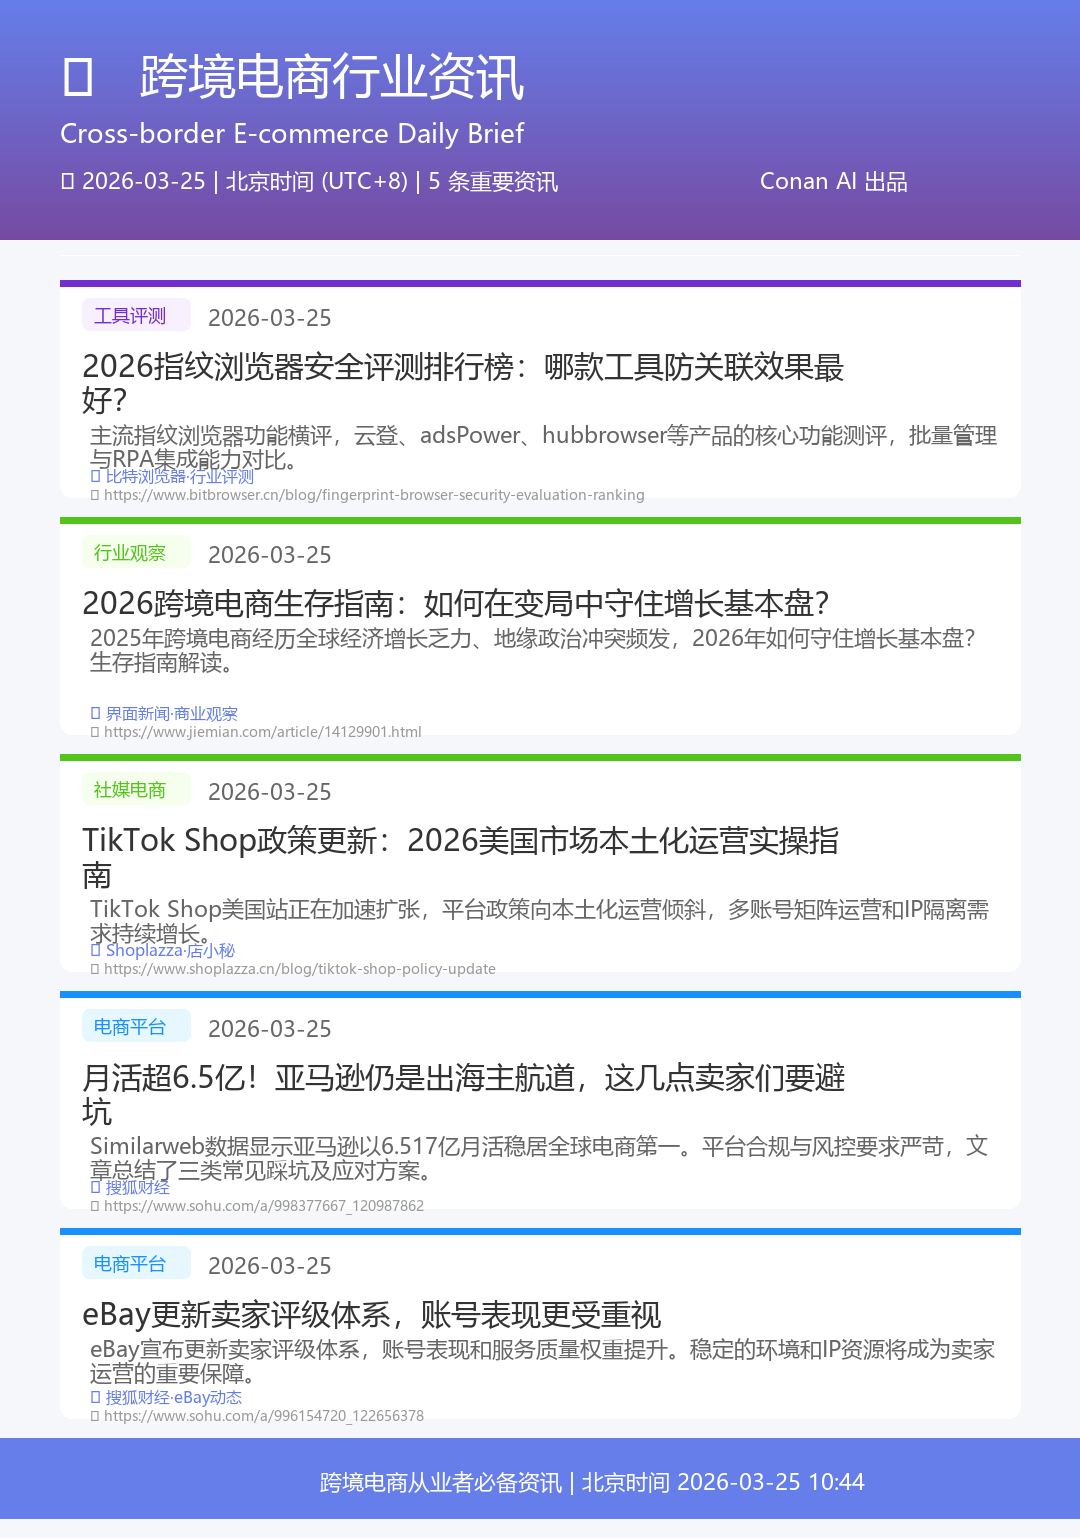
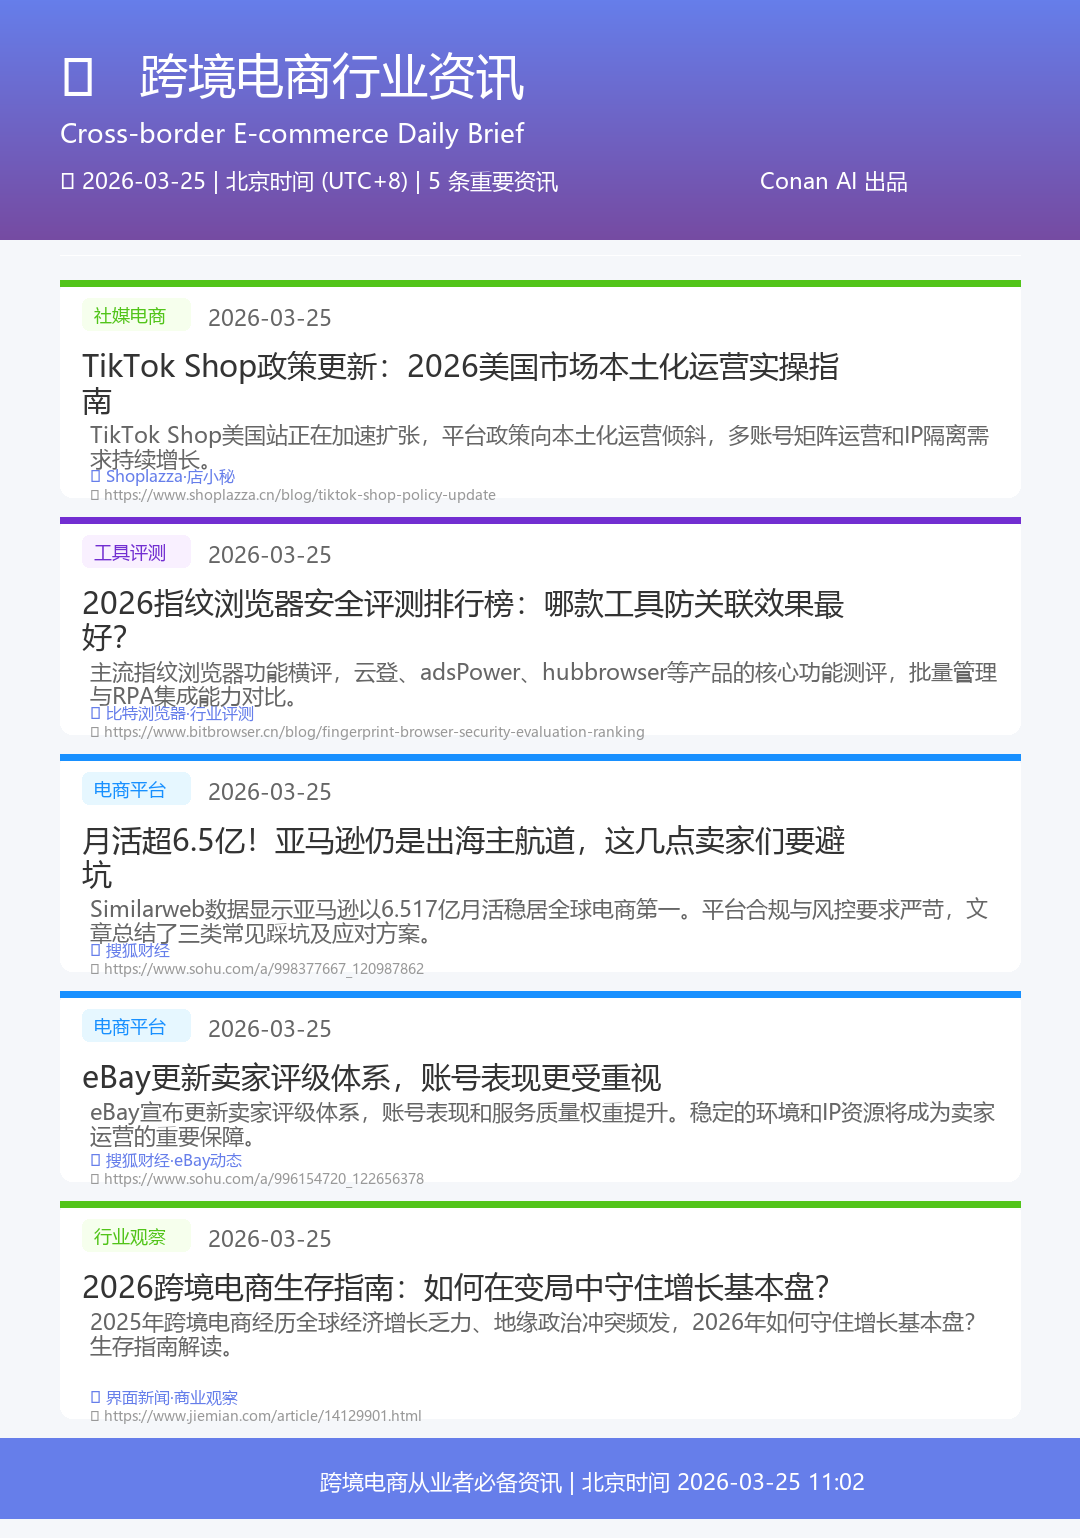
update: 行业简报 2026-03-25 11:02

Changed region(s): [[0.0611, 0.156, 0.9472, 0.6554], [0.0611, 0.6866, 0.9472, 0.9363], [0.7639, 0.9363, 0.7944, 0.9675]]

diff --git a/资讯/index.html b/资讯/index.html
@@ -83,7 +83,7 @@
 <div class="header">
   <h1>📰 行业资讯</h1>
   <div>
-    <span class="last-check">🕒 北京时间 (UTC+8) | 2026-03-25 10:44</span>
+    <span class="last-check">🕒 北京时间 (UTC+8) | 2026-03-25 11:02</span>
     <a href="../index.html" style="margin-left:15px;">← 返回首页</a>
   </div>
 </div>
@@ -121,39 +121,11 @@
       <span class="badge">5 条重要资讯</span>
     </div>
 
-    <div class="news-item" data-category="工具评测">
-      <div class="news-meta">
-        <span class="tag tag-purple">工具评测</span>
-        2026-03-25
-        <span class="update-time">🕒 更新时间 2026-03-25 10:44</span><span style="color:#52c41a;font-size:11px;"> NEW</span>
-      </div>
-      <div class="news-title">
-        <a href="https://www.bitbrowser.cn/blog/fingerprint-browser-security-evaluation-ranking" target="_blank">2026指纹浏览器安全评测排行榜：哪款工具防关联效果最好？</a>
-      </div>
-      <div class="news-summary">主流指纹浏览器功能横评，云登、adsPower、hubbrowser等产品的核心功能测评，批量管理与RPA集成能力对比。</div>
-      <div class="news-source">📌 来源：<a href="https://www.bitbrowser.cn/blog/fingerprint-browser-security-evaluation-ranking" target="_blank">比特浏览器·行业评测</a>
-        <span class="read-link">→ 阅读原文</span>
-      </div>
-    </div>
-    <div class="news-item" data-category="行业观察">
-      <div class="news-meta">
-        <span class="tag tag-green">行业观察</span>
-        2026-03-25
-        <span class="update-time">🕒 更新时间 2026-03-25 10:44</span><span style="color:#52c41a;font-size:11px;"> NEW</span>
-      </div>
-      <div class="news-title">
-        <a href="https://www.jiemian.com/article/14129901.html" target="_blank">2026跨境电商生存指南：如何在变局中守住增长基本盘？</a>
-      </div>
-      <div class="news-summary">2025年跨境电商经历全球经济增长乏力、地缘政治冲突频发，2026年如何守住增长基本盘？生存指南解读。</div>
-      <div class="news-source">📌 来源：<a href="https://www.jiemian.com/article/14129901.html" target="_blank">界面新闻·商业观察</a>
-        <span class="read-link">→ 阅读原文</span>
-      </div>
-    </div>
     <div class="news-item" data-category="社媒电商">
       <div class="news-meta">
         <span class="tag tag-green">社媒电商</span>
         2026-03-25
-        <span class="update-time">🕒 更新时间 2026-03-25 10:44</span>
+        <span class="update-time">🕒 更新时间 2026-03-25 11:02</span>
       </div>
       <div class="news-title">
         <a href="https://www.shoplazza.cn/blog/tiktok-shop-policy-update" target="_blank">TikTok Shop政策更新：2026美国市场本土化运营实操指南</a>
@@ -163,11 +135,25 @@
         <span class="read-link">→ 阅读原文</span>
       </div>
     </div>
+    <div class="news-item" data-category="工具评测">
+      <div class="news-meta">
+        <span class="tag tag-purple">工具评测</span>
+        2026-03-25
+        <span class="update-time">🕒 更新时间 2026-03-25 11:02</span>
+      </div>
+      <div class="news-title">
+        <a href="https://www.bitbrowser.cn/blog/fingerprint-browser-security-evaluation-ranking" target="_blank">2026指纹浏览器安全评测排行榜：哪款工具防关联效果最好？</a>
+      </div>
+      <div class="news-summary">主流指纹浏览器功能横评，云登、adsPower、hubbrowser等产品的核心功能测评，批量管理与RPA集成能力对比。</div>
+      <div class="news-source">📌 来源：<a href="https://www.bitbrowser.cn/blog/fingerprint-browser-security-evaluation-ranking" target="_blank">比特浏览器·行业评测</a>
+        <span class="read-link">→ 阅读原文</span>
+      </div>
+    </div>
     <div class="news-item" data-category="电商平台">
       <div class="news-meta">
         <span class="tag tag-blue">电商平台</span>
         2026-03-25
-        <span class="update-time">🕒 更新时间 2026-03-25 10:44</span>
+        <span class="update-time">🕒 更新时间 2026-03-25 11:02</span>
       </div>
       <div class="news-title">
         <a href="https://www.sohu.com/a/998377667_120987862" target="_blank">月活超6.5亿！亚马逊仍是出海主航道，这几点卖家们要避坑</a>
@@ -181,13 +167,27 @@
       <div class="news-meta">
         <span class="tag tag-blue">电商平台</span>
         2026-03-25
-        <span class="update-time">🕒 更新时间 2026-03-25 10:44</span>
+        <span class="update-time">🕒 更新时间 2026-03-25 11:02</span>
       </div>
       <div class="news-title">
         <a href="https://www.sohu.com/a/996154720_122656378" target="_blank">eBay更新卖家评级体系，账号表现更受重视</a>
       </div>
       <div class="news-summary">eBay宣布更新卖家评级体系，账号表现和服务质量权重提升。稳定的环境和IP资源将成为卖家运营的重要保障。</div>
       <div class="news-source">📌 来源：<a href="https://www.sohu.com/a/996154720_122656378" target="_blank">搜狐财经·eBay动态</a>
+        <span class="read-link">→ 阅读原文</span>
+      </div>
+    </div>
+    <div class="news-item" data-category="行业观察">
+      <div class="news-meta">
+        <span class="tag tag-green">行业观察</span>
+        2026-03-25
+        <span class="update-time">🕒 更新时间 2026-03-25 11:02</span>
+      </div>
+      <div class="news-title">
+        <a href="https://www.jiemian.com/article/14129901.html" target="_blank">2026跨境电商生存指南：如何在变局中守住增长基本盘？</a>
+      </div>
+      <div class="news-summary">2025年跨境电商经历全球经济增长乏力、地缘政治冲突频发，2026年如何守住增长基本盘？生存指南解读。</div>
+      <div class="news-source">📌 来源：<a href="https://www.jiemian.com/article/14129901.html" target="_blank">界面新闻·商业观察</a>
         <span class="read-link">→ 阅读原文</span>
       </div>
     </div>

diff --git a/index.html b/index.html
@@ -76,7 +76,7 @@
 <div class="header">
   <h1>📊 Conan信息站</h1>
   <div>
-    <span class="tz">🕒 北京时间 (UTC+8) | 资讯2026-03-25 10:44 | 资讯2026-03-25 10:37 | 资讯2026-03-25 10:33 | 资讯2026-03-25 10:30 | 资讯2026-03-25 10:29 | 资讯更新于 2026-03-25 10:15</span>
+    <span class="tz">🕒 北京时间 (UTC+8) | 资讯2026-03-25 11:02 | 资讯2026-03-25 10:44 | 资讯2026-03-25 10:37 | 资讯2026-03-25 10:33 | 资讯2026-03-25 10:30 | 资讯2026-03-25 10:29 | 资讯更新于 2026-03-25 10:15</span>
     <a href="https://github.com/dwightmulkin-beep/conan-daily-report" target="_blank">GitHub</a>
   </div>
 </div>
@@ -132,30 +132,30 @@
   <div class="section">
 
     <div class="news-item">
-      <div class="meta"><span class="tag tag-purple">工具评测</span>2026-03-25 <span class="update-time">🕒 2026-03-25 10:44</span></div>
-      <div class="title"><a href="https://www.bitbrowser.cn/blog/fingerprint-browser-security-evaluation-ranking" target="_blank">2026指纹浏览器安全评测排行榜：哪款工具防关联效果最好？</a></div>
-      <div class="summary">主流指纹浏览器功能横评，云登、adsPower、hubbrowser等产品的核心功能测评，批量管理与RPA集成能力对比。</div>
-      <div class="source">📌 <a href="https://www.bitbrowser.cn/blog/fingerprint-browser-security-evaluation-ranking" target="_blank">比特浏览器·行业评测</a></div>
-    </div><div class="news-item">
-      <div class="meta"><span class="tag tag-green">行业观察</span>2026-03-25 <span class="update-time">🕒 2026-03-25 10:44</span></div>
-      <div class="title"><a href="https://www.jiemian.com/article/14129901.html" target="_blank">2026跨境电商生存指南：如何在变局中守住增长基本盘？</a></div>
-      <div class="summary">2025年跨境电商经历全球经济增长乏力、地缘政治冲突频发，2026年如何守住增长基本盘？生存指南解读。</div>
-      <div class="source">📌 <a href="https://www.jiemian.com/article/14129901.html" target="_blank">界面新闻·商业观察</a></div>
-    </div><div class="news-item">
-      <div class="meta"><span class="tag tag-green">社媒电商</span>2026-03-25 <span class="update-time">🕒 2026-03-25 10:44</span></div>
+      <div class="meta"><span class="tag tag-green">社媒电商</span>2026-03-25 <span class="update-time">🕒 2026-03-25 11:02</span></div>
       <div class="title"><a href="https://www.shoplazza.cn/blog/tiktok-shop-policy-update" target="_blank">TikTok Shop政策更新：2026美国市场本土化运营实操指南</a></div>
       <div class="summary">TikTok Shop美国站正在加速扩张，平台政策向本土化运营倾斜，多账号矩阵运营和IP隔离需求持续增长。</div>
       <div class="source">📌 <a href="https://www.shoplazza.cn/blog/tiktok-shop-policy-update" target="_blank">Shoplazza·店小秘</a></div>
     </div><div class="news-item">
-      <div class="meta"><span class="tag tag-blue">电商平台</span>2026-03-25 <span class="update-time">🕒 2026-03-25 10:44</span></div>
+      <div class="meta"><span class="tag tag-purple">工具评测</span>2026-03-25 <span class="update-time">🕒 2026-03-25 11:02</span></div>
+      <div class="title"><a href="https://www.bitbrowser.cn/blog/fingerprint-browser-security-evaluation-ranking" target="_blank">2026指纹浏览器安全评测排行榜：哪款工具防关联效果最好？</a></div>
+      <div class="summary">主流指纹浏览器功能横评，云登、adsPower、hubbrowser等产品的核心功能测评，批量管理与RPA集成能力对比。</div>
+      <div class="source">📌 <a href="https://www.bitbrowser.cn/blog/fingerprint-browser-security-evaluation-ranking" target="_blank">比特浏览器·行业评测</a></div>
+    </div><div class="news-item">
+      <div class="meta"><span class="tag tag-blue">电商平台</span>2026-03-25 <span class="update-time">🕒 2026-03-25 11:02</span></div>
       <div class="title"><a href="https://www.sohu.com/a/998377667_120987862" target="_blank">月活超6.5亿！亚马逊仍是出海主航道，这几点卖家们要避坑</a></div>
       <div class="summary">Similarweb数据显示亚马逊以6.517亿月活稳居全球电商第一。平台合规与风控要求严苛，文章总结了三类常见踩坑及应对方案。</div>
       <div class="source">📌 <a href="https://www.sohu.com/a/998377667_120987862" target="_blank">搜狐财经</a></div>
     </div><div class="news-item">
-      <div class="meta"><span class="tag tag-blue">电商平台</span>2026-03-25 <span class="update-time">🕒 2026-03-25 10:44</span></div>
+      <div class="meta"><span class="tag tag-blue">电商平台</span>2026-03-25 <span class="update-time">🕒 2026-03-25 11:02</span></div>
       <div class="title"><a href="https://www.sohu.com/a/996154720_122656378" target="_blank">eBay更新卖家评级体系，账号表现更受重视</a></div>
       <div class="summary">eBay宣布更新卖家评级体系，账号表现和服务质量权重提升。稳定的环境和IP资源将成为卖家运营的重要保障。</div>
       <div class="source">📌 <a href="https://www.sohu.com/a/996154720_122656378" target="_blank">搜狐财经·eBay动态</a></div>
+    </div><div class="news-item">
+      <div class="meta"><span class="tag tag-green">行业观察</span>2026-03-25 <span class="update-time">🕒 2026-03-25 11:02</span></div>
+      <div class="title"><a href="https://www.jiemian.com/article/14129901.html" target="_blank">2026跨境电商生存指南：如何在变局中守住增长基本盘？</a></div>
+      <div class="summary">2025年跨境电商经历全球经济增长乏力、地缘政治冲突频发，2026年如何守住增长基本盘？生存指南解读。</div>
+      <div class="source">📌 <a href="https://www.jiemian.com/article/14129901.html" target="_blank">界面新闻·商业观察</a></div>
     </div>
 
     </div>
